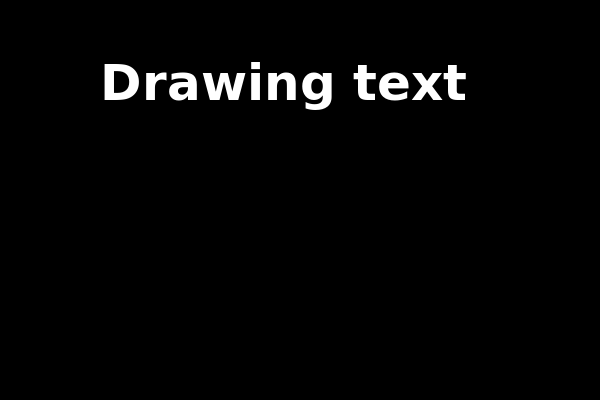
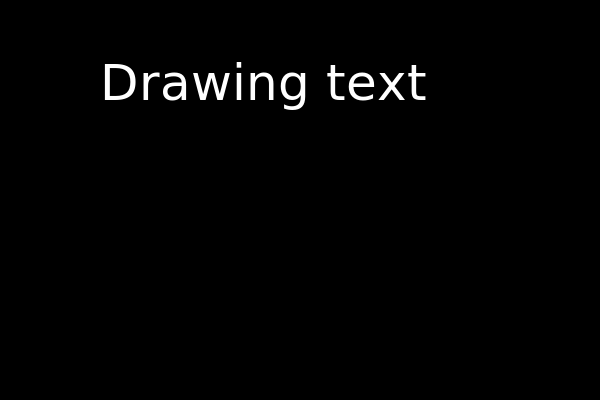
#22 - vortex: mondrian composition

Changed region(s): [[0.18, 0.15, 0.78, 0.3]]

diff --git a/src/cairo/mondrian.py b/src/cairo/mondrian.py
@@ -1,0 +1,91 @@
+#!/usr/bin/env python3
+##########
+##
+##  SPDX-License-Identifier: MIT
+##
+##  Copyright (c) 2022 James M. Putnam <putnamjm.design@gmail.com>
+##
+##########
+
+##########
+##
+## text utilities
+##
+###########
+
+"""text: json text utilities
+"""
+
+import os
+import json
+import cairo
+import cairosvg
+import math
+from datetime import datetime
+
+width = 400
+height = 300
+twelfth = math.pi/6
+
+# static configuration
+noon = 8 * twelfth
+sw = 0.015 # stroke width
+
+conf_dict = None
+penta_minute = None
+dodeca_hour = None
+penta = None
+
+def path(path, file_name):
+    return os.path.join(os.path.abspath(os.path.dirname(path)), file_name)
+
+def config():
+    global conf_dict
+    global penta_minute
+    global dodeca_hour
+    global penta
+    
+    conf_dict = []
+    with open(path(__file__, './conf.json'), 'r') as file:
+        conf_dict = json.load(file)
+    penta_minute = int(int(datetime.now().strftime('%M')) / 5);
+    dodeca_hour = int(datetime.now().strftime('%H')) % 12;
+    penta = penta_minute + 1
+
+def gnomon(hour, r0):
+    r = .5 - sw * 2
+    x0 = (r - r0) * math.cos(hour) + 0.7
+    y0 = (r - r0) * math.sin(hour) + 0.5
+    return x0, y0
+
+def render():
+    with cairo.SVGSurface("example.svg", width * .75, height * .75) as surface:
+        context = cairo.Context(surface)
+        context.scale(height * .75, height * .75)
+        context.set_source_rgba(1, 1.0, 1.0, 1.0)
+    
+        context.set_line_width(sw)
+    
+        context.arc(0.7, 0.5, .5 - sw * 2, 0, 2 * 3.1415)
+        context.set_source_rgb(0.5, 0.5, 0.5)
+        context.set_fill_rule(cairo.FILL_RULE_EVEN_ODD)
+        context.fill()
+    
+        context.move_to(0.7, 0.5)
+        context.set_source_rgb(1, 1, 1)
+        context.arc(0.7, 0.5, 0.5, noon + (twelfth * penta), (noon + (twelfth * (penta + 1))))
+        context.fill()
+
+        context.move_to(0.7, 0.5)
+        context.set_source_rgb(0, 0, 0)
+
+        xg, yg = gnomon(dodeca_hour, .04 + sw * 2)
+        context.arc(xg, yg, 0.04, 0, 2 * math.pi)
+        context.fill()
+        
+        context.stroke()
+
+config()
+render()
+        
+cairosvg.svg2png(url="example.svg", write_to="example.png")

diff --git a/src/text/text.py b/src/text/text.py
@@ -3,7 +3,7 @@
 ##
 ##  SPDX-License-Identifier: MIT
 ##
-##  Copyright (c) 2017-2022 James M. Putnam <putnamjm.design@gmail.com>
+##  Copyright (c) 2022 James M. Putnam <putnamjm.design@gmail.com>
 ##
 ##########
 
@@ -33,14 +33,13 @@ def path(path, file_name):
 
 # static configuration
 conf_dict = []
-with open(path(__file__, './text.json'), 'r') as file:
+with open(path(__file__, './fonts.json'), 'r') as file:
     conf_dict = json.load(file)
 
-fonts = conf_dict['font']
 surface = cairo.ImageSurface(cairo.FORMAT_RGB24,
                              WIDTH*PIXEL_SCALE,
                              HEIGHT*PIXEL_SCALE)
-
+x
 ctx = cairo.Context(surface)
 ctx.scale(PIXEL_SCALE, PIXEL_SCALE)
 
@@ -51,9 +50,11 @@ ctx.fill()
 # Drawing code
 ctx.set_source_rgb(1, 1, 1)
 ctx.set_font_size(0.25)
-ctx.select_font_face(fonts['face'],
-                     getattr(cairo, fonts["style"]), # cairo.FONT_SLANT_NORMAL,
-                     getattr(cairo, fonts["weight"]))
+
+arial = conf_dict['arial']
+ctx.select_font_face(arial['face'],
+                     getattr(cairo, arial["style"]),
+                     getattr(cairo, arial["weight"]))
 
 ctx.move_to(0.5, 0.5)
 ctx.show_text('Drawing text')
